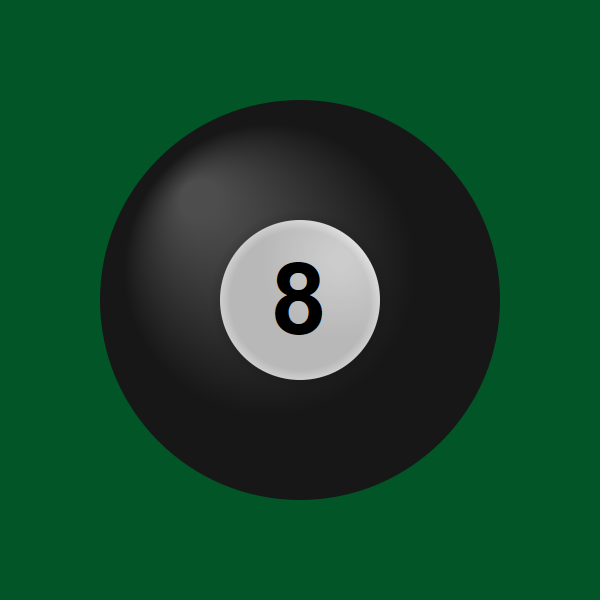
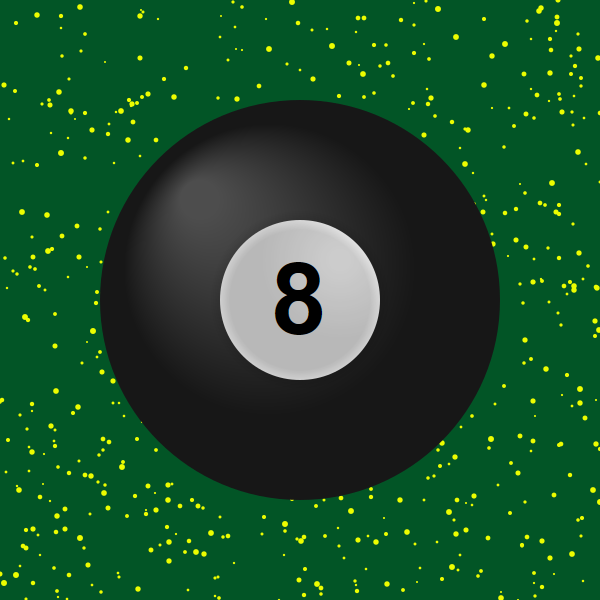
stars/dots

diff --git a/ball.py b/ball.py
@@ -10,14 +10,17 @@ context = cairo.Context(surface)
 context.set_source_rgb(2/255,85/255,38/255)
 context.paint()
 
+#   'dots'
+for _ in range(700):
+    x = random.randint(0, WIDTH)
+    y = random.randint(0, HEIGHT)
+    size = random.uniform(1, 3)  # Random 'dot' size
+    context.set_source_rgb(236/255, 253/255, 0/255)  # yellow
+    context.arc(x, y, size, 0, 2 * math.pi)
+    context.fill()    
+
 
 def draw_sphere(context, center_x, center_y, radius):
-
-
-
-
-
-
 # main circle for the ball
     context.arc(center_x, center_y, radius, 0, 2 * math.pi)
     gradient=cairo.RadialGradient(center_x - radius * 0.5, center_y - radius * 0.5, radius * 0.1, center_x, center_y, radius)
